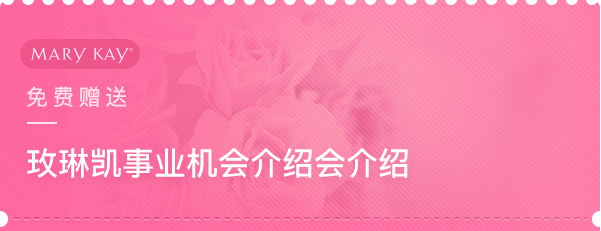
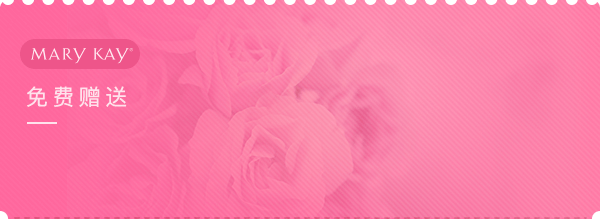
modify

diff --git a/static/20170515/popCard.html b/static/20170515/popCard.html
@@ -16,18 +16,25 @@
         .-m-electronic-business-card{background-color: #ffffff;font-size: 0;padding: 10px;position: fixed;bottom: 0;}
         .-m-electronic-business-card .block{display: block;}
         .-m-electronic-business-card .inline-block{display: inline-block;}
+        .-m-electronic-business-card .hidden{display: none;}
         .-m-electronic-business-card .width-all{width: 100%;}
         .-m-electronic-business-card .f-l{float: left;}
         .-m-electronic-business-card .f-0{font-size:.9375rem;color:#222222;}
         .-m-electronic-business-card .f-1{font-size: .75rem;color:#666666;}
         .-m-electronic-business-card .f-2{font-size: .8125rem;color: #b2b2b2;}
+        .-m-electronic-business-card .f-3{font-size: 1rem;color: #ffffff;}
         .-m-electronic-business-card .card{position: relative;}
+        .-m-electronic-business-card .title{position: absolute;left: 4%;top:45%;}
         .-m-electronic-business-card .close{padding-bottom: 10px;text-align: right;}
-        .-m-electronic-business-card .user-img{width: 22%;height: auto;border: 2px solid #ffffff; position: absolute;top: 12%;right: 4%;}
+        .-m-electronic-business-card .label{width: 16%;height: auto; position: absolute;right: 3%;top: 41%;}
+        .-m-electronic-business-card .user-img{width: 22%;height: auto;border: 2px solid #ffffff; position: absolute;top: 12%;right: 6%;}
         .-m-electronic-business-card .info{height: 40px;padding: 10px;text-align: right;border: 1px solid #ebebeb;margin-top: 13px;}
         .-m-electronic-business-card .info-img{width: 40px;height: 40px;border-radius: 50%;}
         .-m-electronic-business-card .tell-phone{width: 30px;height: 30px;margin-top: 5px; vertical-align: middle;}
-        .-m-electronic-business-card .info-user{text-align: left;margin-left:6px;}
+        .-m-electronic-business-card .info-user{text-align: left;margin-left:10px;}
+        @media screen and (min-width: 750px){
+            .-m-electronic-business-card .f-3{font-size: 2rem;color: #ffffff;}
+        }
     </style>
 </head>
 <body>
@@ -36,15 +43,18 @@
     <div class="-m-electronic-business-card">
         <div class="close"><span class="f-2 inline-block J-close">关闭</span></div>
         <div class="card">
+            <strong class="title f-3">玫琳凯事业机会介绍会介绍</strong> <!-- 礼券名称 -->
             <img class="width-all" src="./image/card_0.png" />
-            <img class="width-all J-receive" src="./image/card_1.jpg" />
-            <img class="user-img block" src="./image/placeholder.jpg" />
+            <img class="width-all J-receive" src="./image/card_1.png" />
+            <img class="user-img block" src="./image/placeholder.jpg" /> <!-- 头像占位图 -->
+            <!-- 是否领取，默认显示，隐藏加上hidden -->
+            <img class="label" src="./image/label.png" />
         </div>
         <div class="info">
             <img class="f-l info-img" src="" onerror="this.src='image/headImg@2x.png'" />
             <div class="f-l info-user inline-block">
                 <span class="f-0 block">唐可</span>
-                <span class="f-1 block -v-phone">170 9511 5186</span>
+                <span class="f-1 block -v-phone">130 6172 7937</span>
             </div>
             <img class="tell-phone J-tell-phone" src="image/call.png" />
         </div>

diff --git a/static/20170515/behind.html b/static/20170515/behind.html
@@ -15,31 +15,41 @@
         .-m-electronic-business-card{background-color: #ffffff;font-size: 0;padding: 10px;}
         .-m-electronic-business-card .block{display: block;}
         .-m-electronic-business-card .inline-block{display: inline-block;}
+        .-m-electronic-business-card .hidden{display: none;}
         .-m-electronic-business-card .width-all{width: 100%;}
         .-m-electronic-business-card .f-l{float: left;}
         .-m-electronic-business-card .f-0{font-size:.9375rem;color:#222222;}
         .-m-electronic-business-card .f-1{font-size: .75rem;color:#666666;}
+        .-m-electronic-business-card .f-2{font-size: 1rem;color: #ffffff;}
         .-m-electronic-business-card .card{position: relative;}
-        .-m-electronic-business-card .user-img{width: 22%;height: auto;border: 2px solid #ffffff; position: absolute;top: 12%;right: 4%;}
+        .-m-electronic-business-card .title{position: absolute;left: 4%;top:45%;}
+        .-m-electronic-business-card .label{width: 16%;height: auto; position: absolute;right: 3%;top: 41%;}
+        .-m-electronic-business-card .user-img{width: 22%;height: auto;border: 2px solid #ffffff; position: absolute;top: 12%;right: 6%;}
         .-m-electronic-business-card .info{height: 40px;padding: 10px;text-align: right;border: 1px solid #ebebeb;margin-top: 13px;}
         .-m-electronic-business-card .info-img{width: 40px;height: 40px;border-radius: 50%;}
         .-m-electronic-business-card .tell-phone{width: 30px;height: 30px;margin-top: 5px; vertical-align: middle;}
-        .-m-electronic-business-card .info-user{text-align: left;margin-left:6px;}
+        .-m-electronic-business-card .info-user{text-align: left;margin-left:10px;}
+        @media screen and (min-width: 750px){
+            .-m-electronic-business-card .f-2{font-size: 2rem;color: #ffffff;}
+        }
     </style>
 </head>
 <body>
 
 <div class="-m-electronic-business-card">
     <div class="card">
+        <strong class="title f-2">玫琳凯事业机会介绍会介绍</strong> <!-- 礼券名称 -->
         <img class="width-all" src="./image/card_0.png" />
-        <img class="width-all J-receive" src="./image/card_1.jpg" />
-        <img class="user-img block" src="./image/placeholder.jpg" />
+        <img class="width-all J-receive" src="./image/card_1.png" />
+        <img class="user-img block" src="./image/placeholder.jpg" /> <!-- 头像占位图 -->
+        <!-- 是否领取，默认显示，隐藏加上hidden -->
+        <img class="label" src="./image/label.png" />
     </div>
     <div class="info">
         <img class="f-l info-img" src="" onerror="this.src='image/headImg@2x.png'" />
         <div class="f-l info-user inline-block">
             <span class="f-0 block">唐可</span>
-            <span class="f-1 block -v-phone">170 9511 5186</span>
+            <span class="f-1 block -v-phone">130 6172 7937</span>
         </div>
         <img class="tell-phone J-tell-phone" src="image/call.png" />
     </div>
